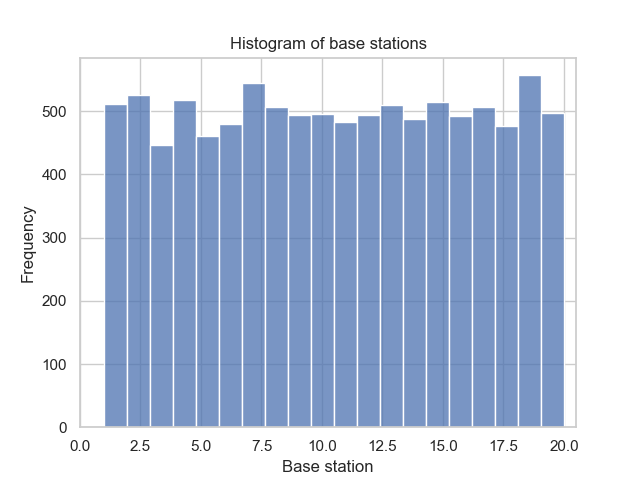
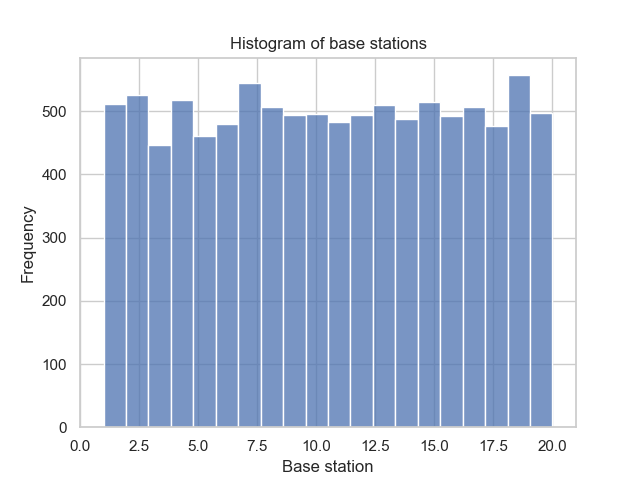
added pdf to base_station_histogram

diff --git a/input_analysis.py b/input_analysis.py
@@ -24,27 +24,44 @@ def interarrival_time_histogram(df, bins=40, pdf=False):
     else:
         # Plot normalised histogram.
         sns.histplot(data=df, x='Interarrival time (sec)', bins=bins, stat='density')
-        # Calculate estimator for exponential distribution
+        # Calculate maximum likelihood estimator for exponential distribution
         x = np.linspace(0, xlim, 1000)
         estimator = df['Interarrival time (sec)'].mean()
         pdf = 1/estimator * np.exp(-x/estimator)
         # Plot estimated pdf
-        plt.plot(x,pdf,'r')
+        plt.plot(x,pdf,'r--')
         plt.savefig('figures/interarrival_time_pdf.png')
 
     plt.show()
 
 
-def base_station_histogram(df, pde=True):
+def base_station_histogram(df, bins=20, pdf=False):
     """Generates histogram for base stations where calls are generated"""
 
     sns.set(style='whitegrid')
-    sns.histplot(data=df, x='Base station ', bins=20)
+    plt.figure()
     plt.xlabel('Base station')
     plt.ylabel('Frequency')
     plt.title('Histogram of base stations')
-    plt.xlim(0,20.5)
-    plt.savefig('figures/base_station_histogram.png')
+    xlim = 21
+    plt.xlim(0,xlim)
+
+    if pdf is False:
+        sns.histplot(data=df, x='Base station ', bins=bins)
+        plt.savefig('figures/base_station_histogram.png')
+
+    else:
+        # Plot normalised histogram.
+        sns.histplot(data=df, x='Base station ', bins=bins, stat='density')
+        # Calculate maximum likelihood estimators a and b
+        estimator_a = df['Base station '].min()
+        estimator_b = df['Base station '].max()
+        pdf = np.full((1000,), 1/(estimator_b - estimator_a))
+        # Plot estimated pdf
+        x = np.linspace(0, xlim, 1000)
+        plt.plot(x,pdf,'r--')
+        plt.savefig('figures/base_station_pdf.png')
+
     plt.show()
 
 
@@ -77,6 +94,6 @@ def car_speed_histogram(df):
 if __name__ == '__main__':
     df = pd.read_excel('simulation_data.xls')
     interarrival_time_histogram(df,pdf=True)
-    # base_station_histogram(df)
+    base_station_histogram(df, pdf=True)
     # call_duration_histogram(df)
     # car_speed_histogram(df)
